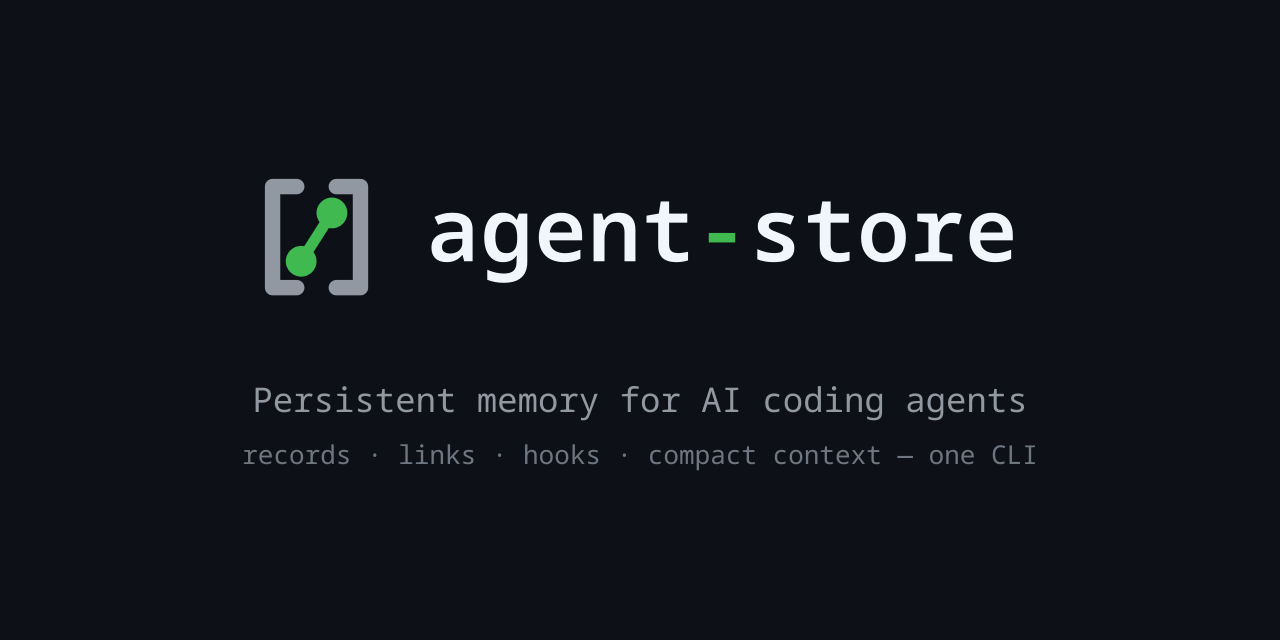
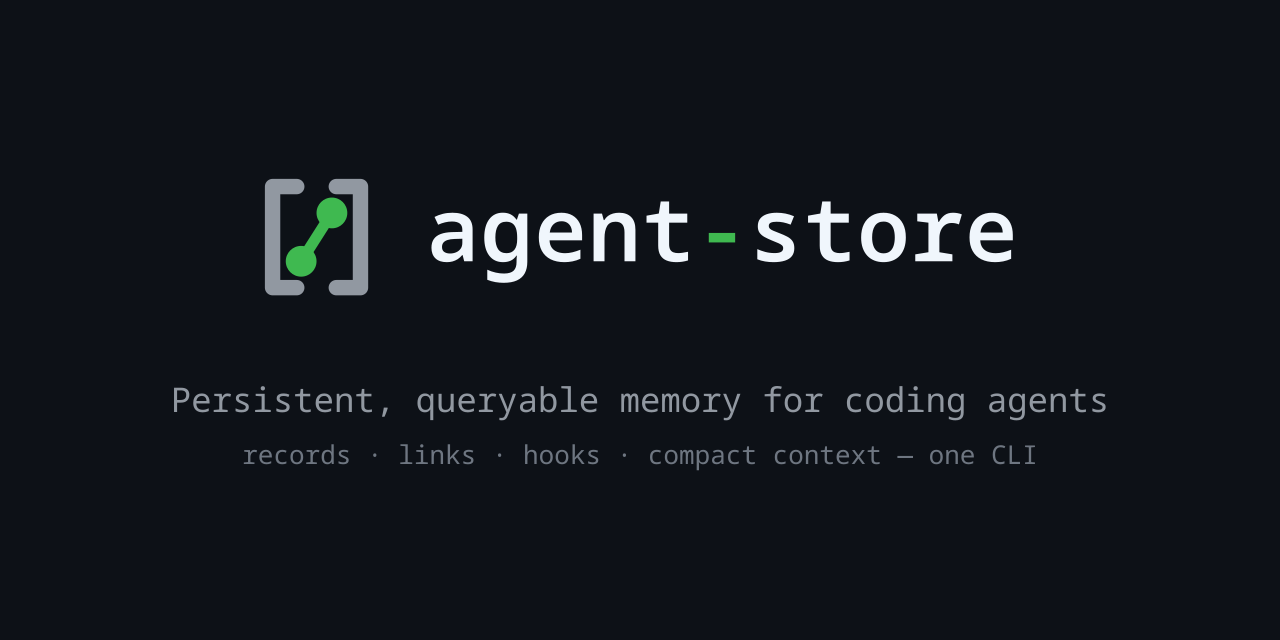
Align one-liner positioning across all first-contact surfaces
Canonical: 'Persistent, queryable memory for coding agents — one binary,
one SQLite file in your repo, no server.' Applied to Cargo.toml
description, --help top line, lib.rs doc intro, man page NAME (+ version
bump to 0.1.2), mkdocs site_description, install.sh header, and the
social-preview card tagline (SVG paths regenerated, PNG re-rasterized).

Changed region(s): [[0.125, 0.5938, 0.875, 0.6562]]

diff --git a/src/lib.rs b/src/lib.rs
@@ -1,5 +1,5 @@
 //! Core library behind the [`agent-store`](https://github.com/av/agent-store) CLI —
-//! a project-local, SQLite-backed memory and context store for AI coding agents.
+//! persistent, queryable memory for coding agents, backed by a single SQLite file in the repo.
 //!
 //! `agent-store` gives agents (and humans) a durable, queryable scratchpad inside a
 //! repository: typed records with arbitrary fields, directional links between records,

diff --git a/src/output.rs b/src/output.rs
@@ -14,7 +14,8 @@ const QUICK_CONTEXT_FIELD_VALUE_ELLIPSIS: &str = "...";
 pub const USAGE: &str = "\
 Usage: agent-store [OPTIONS] <COMMAND>
 
-A project-local store for agent-facing records, links, hooks, and context.
+Persistent, queryable memory for coding agents — records, links, hooks, and
+compact context in one SQLite file in your repo.
 
 Options:
   -h, --help    Print help
